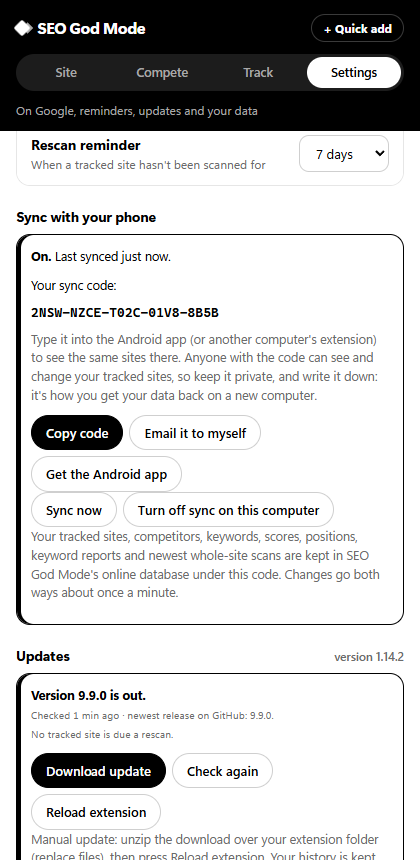
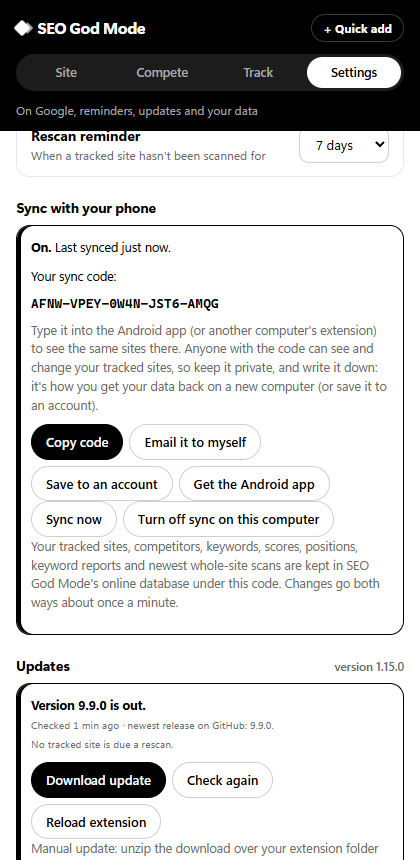
Optional account for phone sync: email + password remembers the sync code
Sync still works with just a code. An optional account (made in the extension or
the app, no email sent) stores the code, so signing in on another device or using
the app without a computer finds the same sites.

diff --git a/extension/views.js b/extension/views.js
@@ -790,40 +790,64 @@ function confirmRemove(box, origin, name, done) {
 /** Update status. "Check again" asks GitHub (skipping the cache) and recounts sites due a rescan, right here in the panel. */
 export const APP_DL = "https://github.com/F0rger123/CLAUDE-SEO-GOD-MODE/releases/download/android-app/SEO-God-Mode.apk";
 
-/** Settings: sync with the Android app using a sync code (no account, no email). */
-async function renderSync(el, joining = false) {
+/**
+ * Settings: sync with the Android app using a sync code (no account, no email needed). An account (email + password)
+ * is optional and only remembers the code, so signing in on another device finds the same sites.
+ * mode: "" (start), "join" (type a code) or "account" (sign in or create an account).
+ */
+async function renderSync(el, mode = "") {
   if (!el) return;
   const s = await cloud.current();
   const { syncStatus: st } = await chrome.storage.local.get("syncStatus");
+  const start = async (msg) => {
+    ui.toast(msg);
+    const r = await chrome.runtime.sendMessage({ type: "syncStart" });
+    if (!r?.ok) ui.notice(esc(r?.error || "Sync failed"));
+    renderSync(el);
+  };
+  if (mode === "account") {
+    el.innerHTML = `<p class="lede">${s?.code ? "Save your sync code to an account, so signing in on another computer or your phone finds these sites without the code." : "Sign in to get your sites from another device, or create an account to keep them. No email is sent."}</p>
+      <form id="acctform" class="field"><label for="acctemail">Email</label><input id="acctemail" class="search big" type="email" autocomplete="username">
+        <label for="acctpw">Password (8 characters or more)</label><input id="acctpw" class="search big" type="password" autocomplete="current-password"></form>
+      <div class="btns"><button id="acctin" class="primary">Sign in</button><button id="acctup">Create account</button><button id="syncback">Back</button></div>`;
+    const go = async (kind) => {
+      try {
+        const r = await cloud.account(kind, $("acctemail").value, $("acctpw").value);
+        await start(r.switched ? "Signed in. Now showing this account's sites, merged with this computer's" : kind === "signup" ? "Account made. Sync is on" : "Signed in. Sync is on");
+      } catch (e) { ui.notice(esc(e.message || e)); }
+    };
+    $("acctform").onsubmit = (e) => { e.preventDefault(); go("signin"); };
+    $("acctin").onclick = () => go("signin");
+    $("acctup").onclick = () => go("signup");
+    $("syncback").onclick = () => renderSync(el);
+    return;
+  }
   if (s?.code) {
     el.innerHTML = `<div class="upd on"><p><b>On.</b> ${st?.error ? `Last try failed: ${esc(st.error)}.` : st ? `Last synced ${ago(st.at)}.` : "Syncing…"}</p>
+      ${s.email ? `<p>Signed in as <b id="acctname">${esc(s.email)}</b>. Sign in with it on your phone or another computer to see the same sites.</p>` : ""}
       <p>Your sync code:</p><p class="synccode" id="code">${esc(s.code)}</p>
-      <p class="unknowns">Type it into the Android app (or another computer's extension) to see the same sites there. Anyone with the code can see and change your tracked sites, so keep it private, and write it down: it's how you get your data back on a new computer.</p>
-      <div class="btns"><button id="copycode" class="primary">Copy code</button><a class="btn" id="mailcode" href="mailto:?subject=${encodeURIComponent("SEO God Mode sync code")}&body=${encodeURIComponent(`My SEO God Mode sync code: ${s.code}\n\nAndroid app: ${APP_DL}`)}">Email it to myself</a><a class="btn" href="${APP_DL}" target="_blank" rel="noopener">Get the Android app</a></div>
-      <div class="btns"><button id="syncnow">Sync now</button><button id="syncoff">Turn off sync on this computer</button></div>
+      <p class="unknowns">Type it into the Android app (or another computer's extension) to see the same sites there. Anyone with the code can see and change your tracked sites, so keep it private${s.email ? "" : ", and write it down: it's how you get your data back on a new computer (or save it to an account)"}.</p>
+      <div class="btns"><button id="copycode" class="primary">Copy code</button><a class="btn" id="mailcode" href="mailto:?subject=${encodeURIComponent("SEO God Mode sync code")}&body=${encodeURIComponent(`My SEO God Mode sync code: ${s.code}\n\nAndroid app: ${APP_DL}`)}">Email it to myself</a>${s.email ? "" : `<button id="acctsave">Save to an account</button>`}<a class="btn" href="${APP_DL}" target="_blank" rel="noopener">Get the Android app</a></div>
+      <div class="btns"><button id="syncnow">Sync now</button><button id="syncoff">${s.email ? "Sign out and turn off sync here" : "Turn off sync on this computer"}</button></div>
       <p class="unknowns">Your tracked sites, competitors, keywords, scores, positions, keyword reports and newest whole-site scans are kept in SEO God Mode's online database under this code. Changes go both ways about once a minute.</p></div>`;
     $("copycode").onclick = () => ui.copy(s.code, "Sync code copied");
+    if (!s.email) $("acctsave").onclick = () => renderSync(el, "account");
     $("syncnow").onclick = async () => { const r = await chrome.runtime.sendMessage({ type: "syncNow" }); ui.toast(r?.ok ? "Synced" : "Sync failed"); renderSync(el); };
     $("syncoff").onclick = async () => { await chrome.runtime.sendMessage({ type: "syncStop" }); ui.toast("Sync is off here. Your data stays on this computer"); renderSync(el); };
     return;
   }
-  el.innerHTML = `<p class="lede">See your businesses, clients, competitors, scores and positions on your phone, and add sites from it. No account or email: turning sync on gives you a code to type into the app.</p>
-    ${joining ? `<form id="syncform" class="field"><label for="synccode">Sync code from your phone or other computer</label><input id="synccode" class="search big" autocomplete="off" autocapitalize="characters" spellcheck="false" placeholder="XXXX-XXXX-XXXX-XXXX-XXXX"></form>
+  el.innerHTML = `<p class="lede">See your businesses, clients, competitors, scores and positions on your phone, and add sites from it. No account or email needed: turning sync on gives you a code to type into the app. An account is optional.</p>
+    ${mode === "join" ? `<form id="syncform" class="field"><label for="synccode">Sync code from your phone or other computer</label><input id="synccode" class="search big" autocomplete="off" autocapitalize="characters" spellcheck="false" placeholder="XXXX-XXXX-XXXX-XXXX-XXXX"></form>
       <div class="btns"><button id="syncjoin" class="primary">Use this code</button><button id="syncback">Back</button></div>`
-    : `<div class="btns"><button id="syncnew" class="primary">Turn on sync</button><button id="syncjoin">I have a code</button><a class="btn" href="${APP_DL}" target="_blank" rel="noopener">Get the Android app</a></div>`}
+    : `<div class="btns"><button id="syncnew" class="primary">Turn on sync</button><button id="syncjoin">I have a code</button><button id="syncacct">Sign in or create account</button><a class="btn" href="${APP_DL}" target="_blank" rel="noopener">Get the Android app</a></div>`}
     <p class="unknowns">Off until you turn it on. Nothing leaves this computer while it's off.</p>`;
   const go = async (code) => {
-    try {
-      await cloud.use(code);
-      ui.toast("Sync is on. Sending your sites…");
-      const r = await chrome.runtime.sendMessage({ type: "syncStart" });
-      if (!r?.ok) ui.notice(esc(r?.error || "Sync failed"));
-      renderSync(el);
-    } catch (e) { ui.notice(esc(e.message || e)); }
+    try { await cloud.use(code); await start("Sync is on. Sending your sites…"); } catch (e) { ui.notice(esc(e.message || e)); }
   };
-  if (!joining) {
+  if (mode !== "join") {
     $("syncnew").onclick = () => go(newCode());
-    $("syncjoin").onclick = () => renderSync(el, true);
+    $("syncjoin").onclick = () => renderSync(el, "join");
+    $("syncacct").onclick = () => renderSync(el, "account");
     return;
   }
   $("syncback").onclick = () => renderSync(el);

diff --git a/mobile/src/app.js b/mobile/src/app.js
@@ -105,7 +105,8 @@ function renderSignIn(fresh = null) {
     : `<h1 class="q">Connect</h1>
       <p class="lede">In the Chrome extension, open <b>Settings › Sync with your phone</b> and press <b>Turn on sync</b>. Type the code it shows here. No account or email needed.</p>
       <form id="sform" class="field"><label for="scode">Sync code</label><input id="scode" class="search big" autocomplete="off" autocapitalize="characters" spellcheck="false" placeholder="XXXX-XXXX-XXXX-XXXX-XXXX"></form>
-      <div class="btns stack"><button id="sgo" class="primary">Connect</button><button id="snew">I don't use the extension yet: start fresh</button></div>`;
+      <div class="btns stack"><button id="sgo" class="primary">Connect</button><button id="sacct">Sign in or create account</button><button id="snew">I don't use the extension yet: start fresh</button></div>
+      <p class="unknowns">No account needed. An account is optional: it remembers your sync code, so you can sign in instead of typing it.</p>`;
   if (fresh) {
     $("scopy").onclick = () => copy(fresh, "Sync code copied");
     $("sgo").onclick = () => cloud.use(fresh).then(start);
@@ -113,10 +114,39 @@ function renderSignIn(fresh = null) {
   }
   $("sform").onsubmit = (e) => { e.preventDefault(); $("sgo").click(); };
   $("snew").onclick = () => renderSignIn(newCode());
+  $("sacct").onclick = () => renderAccountForm();
   $("sgo").onclick = async () => {
     notice("");
     try { await cloud.use($("scode").value); start(); } catch (e) { notice(esc(e.message || e)); }
   };
+}
+
+// Optional account (email + password): it only remembers the sync code. Sign in on a new phone to get the same sites.
+function renderAccountForm() {
+  const connected = !$("mode").hidden;
+  $("view").innerHTML = `<h1 class="q">${connected ? "Save to an account" : "Sign in"}</h1>
+      <p class="lede">${connected ? "Keep your sync code in an account, so signing in on another phone or computer finds these sites." : "Sign in to get your sites, or create an account to keep them. Works without a computer. No email is sent."}</p>
+      <form id="aform" class="field"><label for="aemail">Email</label><input id="aemail" class="search big" type="email" autocomplete="username">
+        <label for="apw">Password (8 characters or more)</label><input id="apw" class="search big" type="password" autocomplete="current-password"></form>
+      <div class="btns stack"><button id="ain" class="primary">Sign in</button><button id="aup">Create account</button><button id="aback">Back</button></div>`;
+  const go = async (kind) => {
+    notice("");
+    try {
+      const r = await cloud.account(kind, $("aemail").value, $("apw").value);
+      if (r.switched) await clearCache();
+      toast(kind === "signup" ? "Account made" : "Signed in");
+      start();
+    } catch (e) { notice(esc(e.message || e)); }
+  };
+  $("aform").onsubmit = (e) => { e.preventDefault(); go("signin"); };
+  $("ain").onclick = () => go("signin");
+  $("aup").onclick = () => go("signup");
+  $("aback").onclick = () => (connected ? renderAccount() : renderSignIn());
+}
+
+async function clearCache() {
+  await Promise.all(["sites", "data", "cursor", "lastSync"].map((k) => setK(k, undefined)));
+  S.sites.clear(); S.data.clear(); S.cursor = { sites: EPOCH, data: EPOCH }; S.lastSync = 0; S.tab = "sites"; S.open = null; S.compare = null;
 }
 
 // ------------------------------------------------------------------ sites
@@ -237,14 +267,15 @@ function renderCompare() {
 async function renderAccount() {
   const s = await cloud.current();
   $("view").innerHTML = `<h2 class="sec first">Account</h2>
-    <div class="upd"><p>Your sync code${S.lastSync ? ` (last synced ${ago(S.lastSync)})` : ""}:</p><p class="synccode">${esc(s?.code || "")}</p>
+    <div class="upd">${s?.email ? `<p>Signed in as <b>${esc(s.email)}</b>. Sign in with it on another phone or computer to see the same sites.</p>` : ""}<p>Your sync code${S.lastSync ? ` (last synced ${ago(S.lastSync)})` : ""}:</p><p class="synccode">${esc(s?.code || "")}</p>
     <p class="unknowns">Your sites, keywords, scores, positions, keyword reports and newest scans are kept in SEO God Mode's online database under this code, and cached on this phone so the app opens offline. Anyone with the code can see and change them, so keep it private.</p>
-    <div class="btns"><button id="copycode">Copy code</button><button id="signout">Disconnect this phone</button></div></div>
+    <div class="btns"><button id="copycode">Copy code</button>${s?.email ? "" : `<button id="acctsave">Save to an account</button>`}<button id="signout">${s?.email ? "Sign out" : "Disconnect this phone"}</button></div></div>
     <h2 class="sec">How it works</h2>
     <p class="lede">Scanning websites and checking Google positions run in the Chrome extension on your computer. This app shows the results and lets you add and organise sites, keywords and competitors; changes reach the extension within a minute while Chrome is open.</p>
     <p class="unknowns">SEO God Mode · Built by <a href="https://theagencyzero.com" target="_blank" rel="noopener">theagencyzero.com</a></p>`;
   $("copycode").onclick = () => copy(s?.code || "", "Sync code copied");
-  $("signout").onclick = async () => { await cloud.signOut(); await Promise.all(["sites", "data", "cursor", "lastSync"].map((k) => setK(k, undefined))); S.sites.clear(); S.data.clear(); S.cursor = { sites: EPOCH, data: EPOCH }; S.lastSync = 0; start(); };
+  if (!s?.email) $("acctsave").onclick = () => renderAccountForm();
+  $("signout").onclick = async () => { await cloud.signOut(); await clearCache(); start(); };
 }
 
 // ------------------------------------------------------------------ quick add (bottom sheet)

diff --git a/extension/lib/cloud.js b/extension/lib/cloud.js
@@ -1,7 +1,7 @@
 /**
  * Phone sync: a tiny client for SEO God Mode's Supabase project, shared by the extension and the Android app.
- * No accounts and no emails: turning sync on makes a random sync code, and every device that has the code shares
- * one copy of your tracked sites. The database files rows under a hash of the code and only answers requests that
+ * No account needed: turning sync on makes a random sync code, and every device that has the code shares one copy of
+ * your tracked sites. An account (email + password, optional) just remembers the code for you. The database files rows under a hash of the code and only answers requests that
  * carry it; the tables can't be read directly. Only the publishable key is here.
  *
  * Rows: sites (one per tracked website) and data (score history, positions, keyword reports, latest scans, one JSON
@@ -26,7 +26,7 @@ export function cleanCode(text) {
 }
 const formatCode = (v) => v.replace(/-/g, "").match(/.{4}/g).join("-");
 
-/** store: { load(): {code}|null, save({code}|null) }. Read from the store on every call, never cached. */
+/** store: { load(): {code, email?}|null, save({code, email?}|null) }. Read from the store on every call, never cached. */
 export function makeCloud(store) {
   async function rpc(fn, args) {
     const s = await store.load();
@@ -48,8 +48,39 @@ export function makeCloud(store) {
   }
   const push = async (fn, rows, size) => { for (let i = 0; i < rows.length; i += size) await rpc(fn, { p_rows: rows.slice(i, i + size) }); };
 
+  /**
+   * Optional account (email + password). The account only remembers a sync code: signing in uses the account's code,
+   * or saves this device's code (or a new one) to the account if it has none. kind: "signin" or "signup".
+   * Returns { code, switched } where switched means this device was on a different code before.
+   */
+  async function account(kind, email, password) {
+    email = String(email || "").trim();
+    if (!/^[^@\s]+@[^@\s]+\.[^@\s]+$/.test(email)) throw new Error("Type your email address.");
+    if (String(password || "").length < 8) throw new Error("Use a password of at least 8 characters.");
+    const res = await fetch(`${SB_URL}/auth/v1/${kind === "signup" ? "signup" : "token?grant_type=password"}`, {
+      method: "POST", body: JSON.stringify({ email, password }), headers: { apikey: SB_KEY, "content-type": "application/json" } });
+    const j = await res.json().catch(() => ({}));
+    if (!res.ok) throw new Error(/invalid login/i.test(j.msg || j.error_description || "") ? "Wrong email or password." : j.msg || j.error_description || j.message || `Sign in failed (${res.status})`);
+    const token = j.access_token || j.session?.access_token;
+    if (!token) throw new Error("Account made, but it needs confirming by email first. Then sign in.");
+    const call = async (fn, args) => {
+      const r = await fetch(`${SB_URL}/rest/v1/rpc/${fn}`, { method: "POST", body: JSON.stringify(args),
+        headers: { apikey: SB_KEY, authorization: `Bearer ${token}`, "content-type": "application/json" } });
+      if (!r.ok) { const e = await r.json().catch(() => ({})); throw new Error(e.message || `Sign in failed (${r.status})`); }
+      return r.json();
+    };
+    const before = (await store.load())?.code || null;
+    const code = cleanCode((await call("sgm_account_code", {})) || (await call("sgm_account_link", { p_code: before || newCode() })));
+    if (!code) throw new Error("Sign in failed (no sync code on the account)");
+    const switched = !!before && before !== code;
+    if (switched) await store.save(null);
+    await store.save({ code, email });
+    return { code, switched };
+  }
+
   return {
     current: () => store.load(),
+    account,
     /** Turn sync on with a code (a new one, or one from another device). */
     async use(code) { const c = cleanCode(code); if (!c) throw new Error("That isn't a sync code. It looks like XXXX-XXXX-XXXX-XXXX-XXXX."); await store.save({ code: c }); return c; },
     signOut: () => store.save(null),

diff --git a/docs/PRIVACY.md b/docs/PRIVACY.md
@@ -20,7 +20,7 @@ One request goes to a third party: a whole-site scan asks **Google PageSpeed Ins
 
 **Updates:** once a day it asks GitHub for the latest release number. If you turn on one-click updates, a small helper on your computer downloads the release zip from GitHub into the extension folder you chose. Nothing about you is sent.
 
-**Sync with your phone (off unless you turn it on):** turning it on under Settings › Sync with your phone makes a random sync code on your computer. While it's on, your tracked sites (address, name, whether it's yours, a client or a competitor, and its keywords), their score history, recorded positions, keyword reports and the newest whole-site scan of each are stored in SEO God Mode's database (Supabase, at `ouinmglpmeqriowdbwes.supabase.co`), filed under a one-way hash of the code, so the Android app can show them and changes made in the app come back. There's no account and no email. Anyone who has the code can read and change that copy, so keep it private. **Turn off sync** stops sending; ask us (below) to delete the stored copy.
+**Sync with your phone (off unless you turn it on):** turning it on under Settings › Sync with your phone makes a random sync code on your computer. While it's on, your tracked sites (address, name, whether it's yours, a client or a competitor, and its keywords), their score history, recorded positions, keyword reports and the newest whole-site scan of each are stored in SEO God Mode's database (Supabase, at `ouinmglpmeqriowdbwes.supabase.co`), filed under a one-way hash of the code, so the Android app can show them and changes made in the app come back. No account is needed. If you choose to make an account (email and password), Supabase keeps your email, a hash of your password and your sync code so signing in can find your sites; no emails are sent. Anyone who has the code can read and change that copy, so keep it private. **Turn off sync** stops sending; ask us (below) to delete the stored copy.
 
 ## What it stores
 
@@ -28,7 +28,7 @@ Scan results (scores, check results and the page facts behind them) are saved in
 
 ## What it shares
 
-Nothing about you. The extension has no analytics, no advertising and no accounts.
+Nothing about you. The extension has no analytics, no advertising, and accounts are optional (for phone sync only).
 
 ## Contact
 

diff --git a/extension/README.md b/extension/README.md
@@ -32,7 +32,7 @@ The first scan of each site asks for access to that site (both its `www` and non
 - **Site** (default): crawls up to 30 pages the way the skill does, then scores 39 checks with rubric v2.0. Fixes are ranked the same way as the skill (points gained × impact) and list the affected pages. Shows your score now and your potential score after the fixes, plus the site's **hosting and tech**. **Just this page** switches to 78 detailed checks on the page you're viewing, plus 8 tools.
 - **Compete:** where you rank for every search you've made, suggested keywords, and three tools: why other pages outrank you, keyword ideas, and a Google Business Profile audit (below).
 - **Track:** the websites you follow, with score history, keyword positions, hosting and tech. **Track new site** adds one step by step, and **+ Quick add** in the header adds the site in the current tab as a client, your own website or a competitor (then asks whose).
-- **Sync with your phone** (Settings): press **Turn on sync** to get a sync code, then type it into the Android app to see and add your tracked sites there. No account or email. Off until you turn it on. Get the app from the [android-app release](https://github.com/F0rger123/CLAUDE-SEO-GOD-MODE/releases/tag/android-app).
+- **Sync with your phone** (Settings): press **Turn on sync** to get a sync code, then type it into the Android app to see and add your tracked sites there. No account needed; **Sign in or create account** is optional and remembers the code for you. Off until you turn it on. Get the app from the [android-app release](https://github.com/F0rger123/CLAUDE-SEO-GOD-MODE/releases/tag/android-app).
 - **Settings:** SEO God Mode on Google results (below), reminders, updates, and export/import.
 
 The panel is black and white, with colour only for ratings: green for good (85+, passing, top 3 on Google), amber for fair, red for poor. Marks also differ in fill (solid passing, half partial, hollow failing), so they read without colour too. Any tracked site or keyword has a × to stop tracking it and delete its history.

diff --git a/CHANGELOG.md b/CHANGELOG.md
@@ -1,5 +1,11 @@
 # Changelog
 
+## 2.21.0 (2026-10-29): extension 1.16 and app: optional account
+
+- **Sign in or create account (optional):** sync still works with just the code, but you can now make an account with an email and password, in the extension (**Settings › Sync with your phone**) or the app's connect screen. The account remembers your sync code: sign in on a new phone or computer and your sites appear, without typing the code. You can also use the app on its own, with no computer, and keep your sites in the account. **Save to an account** adds an account to a code you already use. No emails are sent.
+- In Supabase, turn off **Authentication › Sign In / Providers › Email › Confirm email** and run `supabase/migrations/20261029000000_sync_codes.sql` (it now also adds the account part, and is safe to run again).
+- The app goes back to the Sites tab after signing out and in.
+
 ## 2.20.0 (2026-10-29): extension 1.15 and app: sync with a code, no email
 
 - **No more email sign-in:** Supabase's built-in email sender is limited to a couple of emails an hour and its links went to a localhost page, so sync now uses a **sync code** instead. In the extension, **Settings › Sync with your phone › Turn on sync** shows a code like `2NSW-NZCE-T02C-01V8-8B5B`; type it into the Android app (or another computer's extension, under **I have a code**) and they share the same tracked sites. **Copy code** and **Email it to myself** make it easy to move. The app can also start fresh with its own code.

diff --git a/README.md b/README.md
@@ -103,7 +103,7 @@ flowchart LR
   B["Phone app<br/>look up, compare, quick add"] <-->|"reads and adds"| C
 ```
 
-**Install it:** on your phone, tap the button above (or open the [android-app release](https://github.com/F0rger123/CLAUDE-SEO-GOD-MODE/releases/tag/android-app)), open **SEO-God-Mode.apk**, and allow your browser to install apps if Android asks. Then, in the Chrome extension, open **Settings › Sync with your phone**, press **Turn on sync**, and type the code it shows into the app. No account or email. Scanning sites and checking Google stay in the extension.
+**Install it:** on your phone, tap the button above (or open the [android-app release](https://github.com/F0rger123/CLAUDE-SEO-GOD-MODE/releases/tag/android-app)), open **SEO-God-Mode.apk**, and allow your browser to install apps if Android asks. Then, in the Chrome extension, open **Settings › Sync with your phone**, press **Turn on sync**, and type the code it shows into the app. No account needed. An account is optional: **Sign in or create account** (email and password, in the app or the extension) remembers your code, so you sign in on a new device instead of typing it, and you can use the app on its own without a computer. Scanning sites and checking Google stay in the extension.
 
 ## 🥊 Stays ahead of your competitors
 
